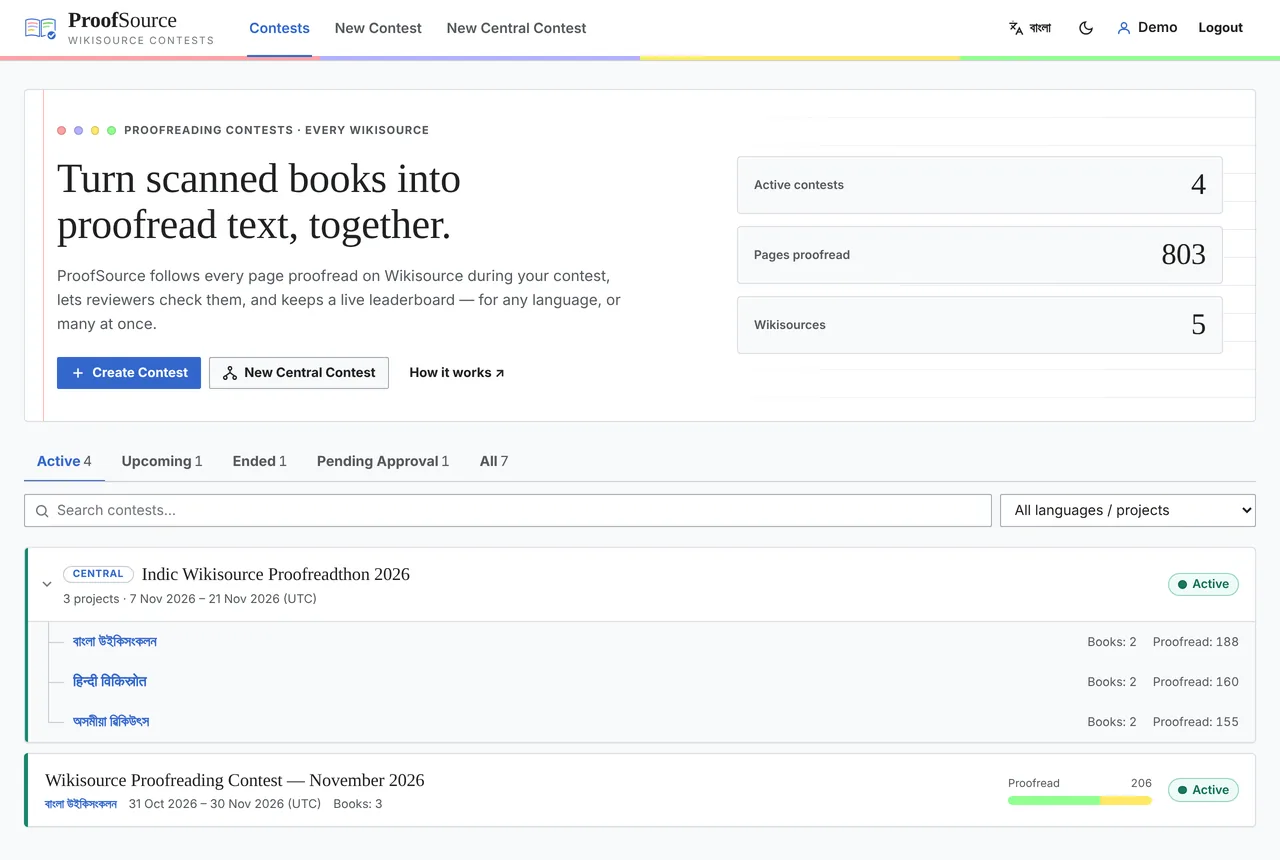
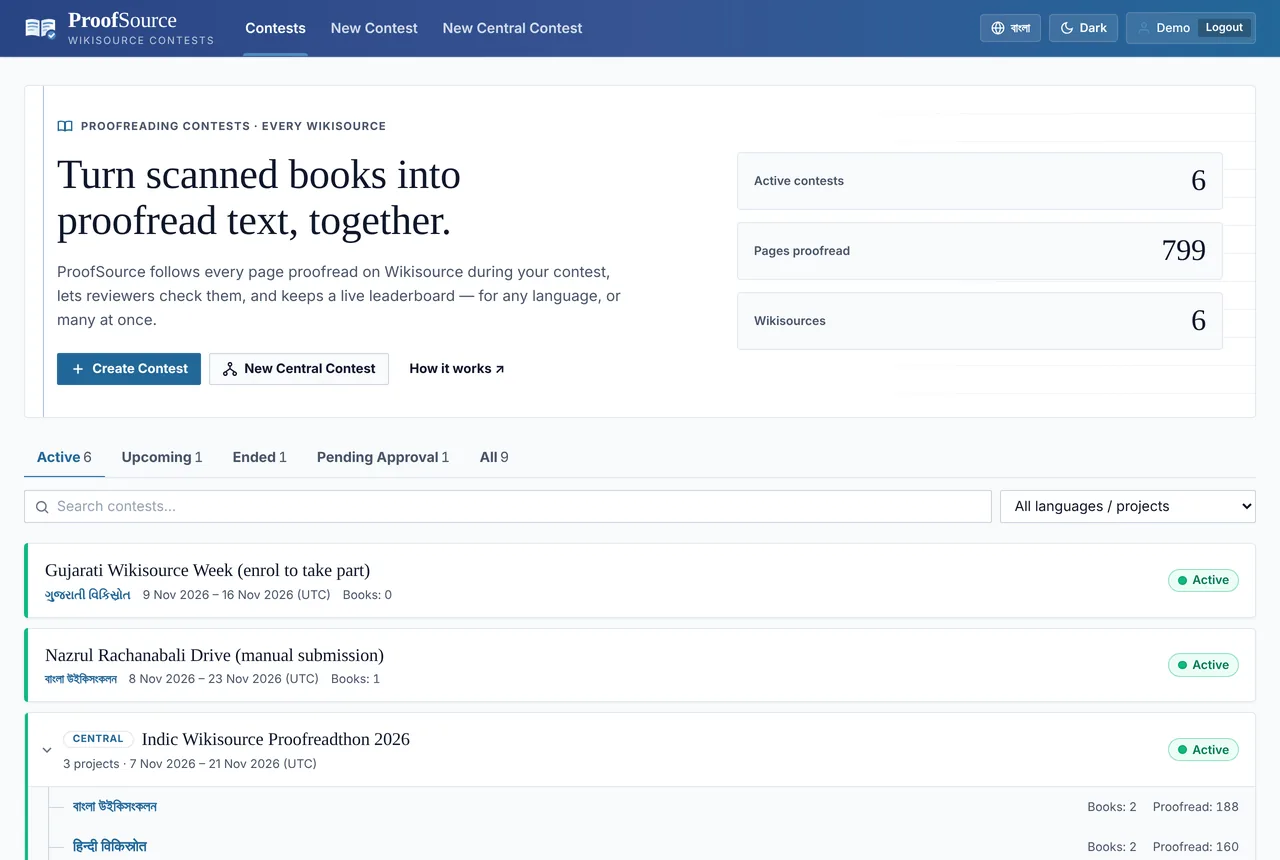
Document submission modes, reverted pages and tool admins
Claude-Session: https://claude.ai/code/session_01VQn43qWt4USaG88CMwjpBB

diff --git a/README_bn.md b/README_bn.md
@@ -16,7 +16,8 @@
 5. [প্রতিযোগিতার অ্যাডমিনদের জন্য](#৫-প্রতিযোগিতার-অ্যাডমিনদের-জন্য)
 6. [কেন্দ্রীয় প্রতিযোগিতা](#৬-কেন্দ্রীয়-প্রতিযোগিতা)
 7. [উইকিসংকলন প্রশাসকদের (sysop) জন্য: অনুমোদন](#৭-উইকিসংকলন-প্রশাসকদের-জন্য)
-8. [সাধারণ প্রশ্ন](#৮-সাধারণ-প্রশ্ন)
+8. [টুল অ্যাডমিনদের জন্য](#টুল-অ্যাডমিনদের-জন্য)
+9. [সাধারণ প্রশ্ন](#৮-সাধারণ-প্রশ্ন)
 
 ---
 
@@ -37,6 +38,15 @@
 2. **নির্ঘণ্ট বইসমূহ** ট্যাবে কোন কোন বই প্রতিযোগিতায় আছে আর প্রতি পাতায় কত পয়েন্ট, তা দেখা যায়। কোনো বইয়ের নিজস্ব সময়সীমা থাকলে সেটাও লেখা থাকে।
 3. **যেকোনো পাতা প্রুফরিড করুন** চাপলে (লগইন থাকতে হবে) টুল প্রুফরিড বাকি এমন একটি পাতা উইকিসংকলনে খুলে দেয়। চাইলে আগে ড্রপডাউন থেকে নির্দিষ্ট বই বেছে নিতে পারেন। পাতাটা ২০ মিনিট আপনার জন্য সংরক্ষিত থাকে, যাতে অন্য কেউ একই পাতা না পায়।
 4. উইকিসংকলনে স্বাভাবিকভাবে পাতাটি সংশোধন করে **মুদ্রণ সংশোধিত** (Proofread) অবস্থায় সংরক্ষণ করুন। টুল নিজে থেকেই পাতাটি ধরে নেবে। চাইলে **উইকি সিঙ্ক করুন** (↻) বাটন চেপে সঙ্গে সঙ্গে হালনাগাদ আনতে পারেন।
+
+### পাতা কীভাবে প্রতিযোগিতায় জমা পড়ে
+আয়োজকেরা তিনটি জমাদান পদ্ধতির একটি বেছে নেন; প্রতিযোগিতার পাতায় কোনটি চলছে তা লেখা থাকে।
+
+| পদ্ধতি | আপনার করণীয় |
+|---|---|
+| **স্বয়ংক্রিয় জমাদান** | কিছুই না। শর্ত পূরণ করা আপনার প্রতিটি পাতা নিজে থেকেই তালিকাভুক্ত হয়। |
+| **আধা স্বয়ংক্রিয় (নিবন্ধন)** | **আমার পাতাসমূহ**-এর পাশে **নিবন্ধন করুন** একবার চাপুন। এরপর শর্ত পূরণ করা আপনার পাতাগুলো নিজে থেকে তালিকাভুক্ত হবে — নিবন্ধনের আগে এই প্রতিযোগিতায় যেগুলো সংশোধন করেছেন সেগুলোও। যাঁরা নিবন্ধন করেননি, তাঁদের পাতা তালিকাভুক্ত হয় না। |
+| **ম্যানুয়াল জমাদান** | **জমা দিন** চাপুন। শর্ত পূরণ করা কিন্তু এখনো জমা না দেওয়া আপনার পাতাগুলোর তালিকা আসবে; যেগুলো চান টিক দিন (অথবা **সব বাছাই**), তারপর **জমা দিন** চাপুন। সদ্য সংশোধন করা পাতা না দেখালে **উইকিতে আবার দেখুন** চাপুন। প্রতিযোগিতা শেষ হওয়ার পর ২৪ ঘণ্টা পর্যন্ত জমা দেওয়া যায়। |
 
 ### আমার পাতাসমূহ
 প্রতিযোগিতার পাতায় **আমার পাতাসমূহ** বাটনে চাপলে আপনার নিজস্ব পাতা খোলে (`…/me`)। সেখানে দেখবেন:
@@ -63,6 +73,8 @@
 - বৈধ পাতাকে আবার মুদ্রণ সংশোধিত করলে, অর্থাৎ স্ট্যাটাস পেছনে নিলে। এমন হলেও কৃতিত্ব থাকে প্রথম যিনি প্রুফরিড করেছিলেন তাঁরই।
 - পরে কেউ পাতাটি আবার "মুদ্রণ সংশোধন করা হয়নি" অবস্থায় ফিরিয়ে দিলে।
 - বাদ দেওয়া পাতা (যেমন সূচিপত্র), বাদ দেওয়া ব্যবহারকারী আর বট অ্যাকাউন্টের পাতা।
+
+**ফেরানো পাতা।** কোনো পাতা একবার প্রতিযোগিতায় তালিকাভুক্ত হলে আর কখনো নিঃশব্দে মুছে যায় না। পরে শর্ত পূরণ না করলে — যেমন কেউ উইকিতে পাতাটি আবার "মুদ্রণ সংশোধন করা হয়নি" করে দিলে — পাতাটি **ফেরানো** অবস্থায় **০ পয়েন্টসহ** রেকর্ডে থাকে, পর্যালোচনায় যায় না, আর পরিবর্তনটি কার্যক্রমের ইতিহাসে লেখা হয়। **ফেরানো পাতা** ট্যাবে, লিডারবোর্ডে আর প্রত্যেকের পাতার তালিকায় এগুলো দেখা যায়। পাতাটি আবার মুদ্রণ সংশোধন করা হলে নিজে থেকেই পর্যালোচনায় ফিরে আসে।
 
 **পয়েন্ট:** পর্যালোচনাসহ প্রতিযোগিতায় পাতা **গৃহীত** হলে পয়েন্ট যোগ হয়। পর্যালোচনা ছাড়া প্রতিযোগিতায় সব যোগ্য পাতাই সরাসরি গণনা হয়। বৈধকরণের জন্য পয়েন্ট থাকলে বৈধকরণও গণনা হয়।
 
@@ -120,6 +132,7 @@
 - **পর্যালোচনা:** পর্যালোচনাসহ, অথবা পর্যালোচনা ছাড়া (প্রুফরিড সপ্তাহের মতো)
 - **পর্যালোচনা বণ্টন:** সবার জন্য উন্মুক্ত, অথবা সমান ভাগ
 - **রিভিউ মোড:** শুধু টুলে গ্রহণ/বাতিল, অথবা টুল থেকেই উইকিতে বৈধকরণ
+- **জমাদান পদ্ধতি:** স্বয়ংক্রিয়, আধা স্বয়ংক্রিয় (নিবন্ধন) অথবা ম্যানুয়াল (ওপরের "পাতা কীভাবে প্রতিযোগিতায় জমা পড়ে" দেখুন)। পরে স্বয়ংক্রিয়তে বদলালে অপেক্ষমাণ সব পাতা তালিকাভুক্ত হয়; আধা স্বয়ংক্রিয়তে বদলালে নিবন্ধিতদের অপেক্ষমাণ পাতা তালিকাভুক্ত হয়।
 - **বাতিল পাতার নিয়ম:** প্রতিযোগিতা শেষে একসঙ্গে ফেরানো, অথবা সঙ্গে সঙ্গে ফেরানো
 - নোটিশ (ইংরেজি ও বাংলা)
 - নির্ঘণ্ট পাতার তালিকা, প্রতি লাইনে একটি, যেমন `নির্ঘণ্ট:বই.pdf` বা `Index:Book.djvu`
@@ -174,6 +187,7 @@
    - বইভিত্তিক কাস্টম পয়েন্ট
    - বোনাস পয়েন্ট
    - জুরি পর্যালোচনা
+   - পাতা জমাদান (*স্বয়ংক্রিয় / আধা স্বয়ংক্রিয় / ম্যানুয়াল / প্রকল্প ঠিক করবে*)
 4. **অন্তর্ভুক্ত প্রকল্প** অংশে প্রকল্প যোগ করুন, আর প্রতিটির জন্য সেই প্রকল্পের অ্যাডমিনদের নাম দিন।
 5. সংরক্ষণ করলে প্রতিটি প্রকল্পের জন্য আলাদা প্রতিযোগিতা নিজে থেকে তৈরি হয়। হোমপেজে সেগুলো কেন্দ্রীয় প্রতিযোগিতার নিচে ট্রি আকারে দেখা যায়।
 
@@ -199,6 +213,14 @@
 - আপনার উইকি অন্তর্ভুক্ত আছে এমন কেন্দ্রীয় প্রতিযোগিতাও আপনি অনুমোদন দিতে পারেন।
 
 হোমপেজের **অনুমোদনের অপেক্ষায়** ট্যাবে অপেক্ষমাণ সব প্রতিযোগিতা পাওয়া যায়।
+
+---
+
+## টুল অ্যাডমিনদের জন্য
+
+টুল অ্যাডমিনরা যেকোনো প্রতিযোগিতা অনুমোদন করতে, অ্যাডমিনদের অনুরোধে প্রতিযোগিতা মুছতে আর ডেটাবেসের স্ন্যাপশট নিতে পারেন। ওপরের মেনুতে **টুল অ্যাডমিন** খুললে তালিকা দেখা যায়:
+- **স্থায়ী** টুল অ্যাডমিনরা সার্ভারের কনফিগারেশন থেকে আসেন (`PROOFSOURCE_SUPER_ADMINS`; ডিফল্ট *MS Sakib*), এই পাতা থেকে তাঁদের সরানো যায় না।
+- যেকোনো টুল অ্যাডমিন উইকিমিডিয়া ব্যবহারকারী-নাম দিয়ে নতুন টুল অ্যাডমিন **যোগ** করতে বা এখান থেকে যোগ করা কাউকে **সরাতে** পারেন। প্রতিটি পরিবর্তন রেকর্ড থাকে।
 
 ---
 

diff --git a/ARCHITECTURE.md b/ARCHITECTURE.md
@@ -10,7 +10,7 @@
 ![Flask](https://img.shields.io/badge/Flask-3.0-236798)
 ![SQLAlchemy](https://img.shields.io/badge/SQLAlchemy-2.x-006699)
 ![Vue](https://img.shields.io/badge/Vue-3-4D8AC0)
-![Tests](https://img.shields.io/badge/tests-67%20passing-2e7d32)
+![Tests](https://img.shields.io/badge/tests-81%20passing-2e7d32)
 
 </div>
 
@@ -18,7 +18,7 @@ ProofSource is a web tool for running **proofreading contests on Wikisource** (a
 
 - **Live:** `https://proofsource.toolforge.org` · **Staging:** `https://proofsource-test.toolforge.org`
 - **Hosting:** Wikimedia Toolforge (Kubernetes webservice, `python3.11`, uWSGI)
-- **Stack:** Python 3.11 · Flask 3.0 · Flask-SQLAlchemy 3.1 (SQLAlchemy 2.x) · **ToolsDB (MariaDB)** in production, SQLite for local development · Vue 3 (self-hosted, single HTML template) · Tailwind CSS built at development time with the Wikimedia **Codex** design tokens (no CDN)
+- **Stack:** Python 3.11 · Flask 3.0 · Flask-SQLAlchemy 3.1 (SQLAlchemy 2.x) · **ToolsDB (MariaDB)** in production, SQLite for local development · Vue 3 (self-hosted, single HTML template) · Tailwind CSS built at development time (original Wikisource-blue theme, Codex-style components; no CDN)
 - **Login:** MediaWiki **OAuth 2.0** (meta.wikimedia.org)
 - **UI languages:** English (default) and Bangla, through one central translation table
 
@@ -108,7 +108,7 @@ Set with `toolforge envvars create NAME VALUE`. Secrets are never stored in code
 | `TOOLSDB_HOST` | ToolsDB host | `tools.db.svc.wikimedia.cloud` |
 | `DATABASE_URL` | Any SQLAlchemy URL; overrides `TOOLSDB_DATABASE` | `sqlite:///proofsource_v5.db` (local development) |
 | `DB_POOL_SIZE` / `DB_MAX_OVERFLOW` / `DB_POOL_RECYCLE` | Connection pool per uWSGI worker (ToolsDB allows few connections per tool) | `2` / `3` / `280` s |
-| `PROOFSOURCE_SUPER_ADMINS` | Tool admins, comma-separated, matched **exactly** (canonical username) | `MS Sakib` |
+| `PROOFSOURCE_SUPER_ADMINS` | **Permanent** tool admins, comma-separated, matched exactly (canonical username). More tool admins can be added in the UI (`tool_admins` table). | `MS Sakib` |
 | `PROOFSOURCE_BACKUP_DIR` | Where backups/snapshots go (created 0700, files 0600) | `~/proofsource_backups` |
 | `PROOFSOURCE_SNAPSHOT_HOURS` | Interval between automatic DB snapshots | `12` |
 | `PROOFSOURCE_SNAPSHOT_KEEP` | Number of snapshots kept | `21` |
@@ -137,10 +137,12 @@ Toolforge requirement: `~/www/python/uwsgi.ini` with `buffer-size = 65535`; othe
 
 | Table | Model | Key fields |
 |---|---|---|
-| `contests` | `Contest` | slug, title, wiki_domain, start/end (UTC), proofread/validate/max_bonus points, jury_mode (`in_app_validate` / `accept_reject`), reject_action (`hold_batch` / `instant_revert`), admins, juries, excluded_users, approval_status, **review_enabled**, **bulk_review_enabled**, **review_assignment** (`open`/`equal`), **allow_custom_points**, announcement_en/bn, last_backup_at, sync_started_at, hub_id, delete_requested_by/at/reason |
+| `contests` | `Contest` | slug, title, wiki_domain, start/end (UTC), proofread/validate/max_bonus points, jury_mode (`in_app_validate` / `accept_reject`), reject_action (`hold_batch` / `instant_revert`), admins, juries, excluded_users, approval_status, **review_enabled**, **bulk_review_enabled**, **review_assignment** (`open`/`equal`), **submission_mode** (`auto`/`enroll`/`manual`), **allow_custom_points**, announcement_en/bn, last_backup_at, sync_started_at, hub_id, delete_requested_by/at/reason |
 | `index_books` | `IndexBook` | contest_id, title, base_name, total_pages, custom_points, excluded_pages, is_active, optional own start/end window |
-| `contest_pages` | `ContestPage` | contest_id, book_id, page_number, page_title, wiki_level, proofreader, validator, proofread_rev_id/time, review_status (`unproofread`/`pending_review`/`accepted`/`needs_fix`/`rejected`), reviewed_by/at, base/bonus points, jury_note, jury & user locks, **last_rev_id** (incremental sync), **assigned_to** (equal review) |
-| `hubs` | `Hub` = **Central contest** | slug, title, description, link, start/end, approval_status, proofread/validate points, custom_points_policy / bonus_policy / review_policy (`yes`/`no`/`project`), admins, delete request fields |
+| `contest_pages` | `ContestPage` | contest_id, book_id, page_number, page_title, wiki_level, proofreader, validator, proofread_rev_id/time, review_status (`unproofread`/`eligible`/`pending_review`/`accepted`/`needs_fix`/`rejected`/`reverted`), **reverted_from / revert_reason / reverted_at**, reviewed_by/at, base/bonus points, jury_note, jury & user locks, **last_rev_id** (incremental sync), **assigned_to** (equal review) |
+| `hubs` | `Hub` = **Central contest** | slug, title, description, link, start/end, approval_status, proofread/validate points, custom_points_policy / bonus_policy / review_policy (`yes`/`no`/`project`), **submission_policy** (`auto`/`enroll`/`manual`/`project`), admins, delete request fields |
+| `enrollments` | `Enrollment` | contest_id, username — participants who enrolled (semi-automatic submission) |
+| `tool_admins` | `ToolAdmin` | username, added_by — tool admins added from the UI (on top of `PROOFSOURCE_SUPER_ADMINS`) |
 | `audit_logs` | `AuditLog` | append-only (ORM blocks update/delete); contest_id (no FK, survives deletion), username, action, target, old/new value, details |
 | `slug_aliases` | `SlugAlias` | old slugs keep working after a slug change (301 redirect) |
 | `oauth_logins` | `OAuthLogin` | server-side OAuth tokens |
@@ -174,6 +176,20 @@ Uses the page's **full revision history** (oldest → newest, paged up to 500 re
 - Changing the contest/book window clears `last_rev_id`, so the next sync re-checks every page.
 - `GET /api/contests/<id>` returns **cached** data instantly; the frontend calls `POST /sync` in the background when data is stale (> 5 min).
 
+### 5.2a Page lifecycle and submission modes
+| Status | Meaning | Counted |
+|---|---|---|
+| `unproofread` | placeholder (e.g. a page reservation) | no |
+| `eligible` | meets the rules (§5.1) but not submitted yet — enrol/manual modes | no, not visible |
+| `pending_review` / `accepted` / `needs_fix` / `rejected` | listed in the contest | per review rules |
+| `reverted` | was listed, then stopped qualifying (set back to *Not proofread*, no longer meets the rules, or excluded by admins) | 0 points, never reviewed, kept forever |
+
+- **auto:** eligible pages go straight to `pending_review` (the original behaviour).
+- **enroll:** only pages of enrolled participants (`enrollments`) do; `POST /enroll` also lists the participant's pages that were already waiting.
+- **manual:** pages wait as `eligible`; the proofreader lists them with `POST /submit` (only their own pages; open until 24 h after the end).
+- Changing the mode re-applies it to waiting pages (`apply_submission_mode`). A central contest can force the mode on all projects.
+- A listed page that stops qualifying becomes `reverted` (`_drop_page`): points 0, removed from review queues and locks, `page_reverted` audit entry by `ProofSource (sync)`. If it is proofread again it returns to `pending_review` (`page_restored`). Unsubmitted `eligible` pages that stop qualifying are simply reset.
+
 ### 5.3 Points & leaderboard
 - Book points = custom points (if allowed) else the contest default.
 - Review mode: points count when `accepted`. Non-review mode: `pending_review` also counts.
@@ -198,7 +214,7 @@ Uses the page's **full revision history** (oldest → newest, paged up to 500 re
 ### 5.6 Permissions
 | Role | Determined by | Can |
 |---|---|---|
-| Tool admin (super admin) | `SUPER_ADMINS` | everything; deletes contests on request; DB snapshots |
+| Tool admin (super admin) | `PROOFSOURCE_SUPER_ADMINS` (permanent) + `tool_admins` table | everything; deletes contests on request; DB snapshots; manages the tool-admin list |
 | Wiki sysop | wiki `sysop/bureaucrat/steward` group | auto-approved contests on that wiki; approves pending contests |
 | Contest admin | creator or `admins` list | configure, books, backup/restore, audit log, request deletion |
 | Reviewer (jury) | `juries` list | review queue, bulk review (if enabled) |
@@ -232,6 +248,10 @@ Pages (all render `index.html` with `window.PS_INITIAL` for instant direct links
 
 Auth: `/login`, `/auth/callback`, `/logout`, `GET /api/session`.
 
+Submission: `POST …/enroll`, `GET …/my-eligible`, `POST …/submit`.
+
+Tool admins: `GET/POST /api/admin/tool-admins`, `DELETE /api/admin/tool-admins/<name>`.
+
 Contests: `GET/POST /api/contests`, `GET /api/contests/<id>`, `POST …/sync`, `POST …/config`, `POST …/approve`, `POST …/books`, `POST …/books/<bid>/update|remove`, `POST …/reserve-page`, `GET …/user/<name>/pages`, `GET /api/contests/by-slug/<lang>/<slug>`.
 
 Review: `GET …/jury/next-page` (filters: book_id, status, contributor, scope, page_id, peek), `POST …/jury/lock|preview|submit`, `GET …/bulk/candidates`, `POST …/bulk/review`, `POST …/batch-revert`.
@@ -253,7 +273,7 @@ Errors return `{"success": false, "error_code": "...", "error": "..."}`; the fro
 - Dates are always UTC, with Bangla digits and month names in Bangla.
 - Keyboard shortcuts use `event.code` (Alt+A accept, Alt+F needs fix, Alt+R reject, Alt+N next), so they work with Bangla/Avro layouts and never fire inside text fields.
 - Cached contest/central data (localStorage) is shown instantly, then refreshed; links prefetch on hover; there is a top progress bar and fade transitions.
-- Design system: the Wikimedia **Codex** design tokens (progressive blue `#36c`, neutral greys `#202122 … #f8f9fa`, night-mode `#101418`, 2 px radii, system fonts, serif headings like the wikis). `tailwind.config.js` maps Tailwind's palette names onto these tokens, so the markup never hard-codes a colour. The signature motif is the four **ProofreadPage quality colours** (not proofread / problematic / proofread / validated) used in the header ribbon and in every progress bar. Shared classes: `.ps-card`, `.ps-row`, `.ps-stat`, `.ps-btn*` (Codex Button), `.ps-input`/`.ps-label` (Codex TextInput), `.ps-tabs`/`.ps-tab` (Codex Tabs), `.ps-chip`, `.ps-qbar`.
+- Design system: ProofSource's **original colour theme** — the Wikisource-logo blues `ws.dark #294584`, `ws.chambray #375493`, `ws.cerulean #236798`, `ws.bright #006699`, `ws.nature #4D8AC0` on Tailwind slate, with emerald/amber/rose/sky for status — combined with Wikimedia **Codex** component conventions (2–4 px radii, 32 px controls, quiet/progressive buttons, underline tabs, system fonts, serif headings like the wikis). Progress bars show accepted (green) and pending (amber) pages. Shared classes: `.ps-card`, `.ps-row`, `.ps-stat`, `.ps-btn*` (Codex Button), `.ps-input`/`.ps-label` (Codex TextInput), `.ps-tabs`/`.ps-tab` (Codex Tabs), `.ps-chip`, `.ps-qbar`.
 - CSS build (only when the template or `static/src/app.css` changes): `npm install && npm run build:css`; commit `static/css/app.css`. Toolforge deploys need no Node.js.
 
 ---

diff --git a/README.md b/README.md
@@ -25,6 +25,9 @@ ProofSource finds every page that is proofread on Wikisource during a contest, l
   <img src="docs/screenshots/review-dark.webp" alt="The review panel in dark mode" width="74%" />
   <img src="docs/screenshots/mobile.webp" alt="A contest on a phone" width="23%" />
 </p>
+<p align="center">
+  <img src="docs/screenshots/submit.webp" alt="Manual submission: choosing pages to submit" width="74%" />
+</p>
 
 ---
 
@@ -38,6 +41,7 @@ ProofSource finds every page that is proofread on Wikisource during a contest, l
 - [For contest admins](#for-contest-admins)
 - [Central contests](#central-contests)
 - [For Wikisource administrators](#for-wikisource-administrators)
+- [For tool admins](#for-tool-admins)
 - [FAQ](#faq)
 
 ---
@@ -49,12 +53,14 @@ ProofSource finds every page that is proofread on Wikisource during a contest, l
 | 🔍 **Automatic tracking** | Pages proofread inside the contest window are detected from the wiki history. |
 | ✅ **Review workflow** | Accept, Needs fix or Reject, with notes, quick feedback chips and optional bonus points. |
 | ⚖ **Fair review distribution** | Open for all reviewers, or pages split equally among them in book order. |
+| 📝 **Three ways to submit** | Automatic, semi-automatic (participants enrol) or manual (participants pick and submit their pages). |
+| ↩ **Nothing silently disappears** | A page set back to *Not proofread* stays on record as *Reverted* with 0 points. |
 | 📦 **Bulk review** | Select many pages (Shift+click) and accept or reject them at once. |
 | 🌐 **Central contests** | Several wikis under one control panel and a combined leaderboard. |
 | 📚 **Flexible books** | Per-book points, excluded pages (`1-5, 12`) and per-book time windows. |
 | 💾 **Backups** | Full JSON backup and restore, CSV exports, automatic snapshots and reminders. |
 | 📝 **Activity log** | Every admin action is recorded and cannot be edited. |
-| 🌙 **Comfortable UI** | Wikimedia (Codex) design, English and Bangla, dark mode, mobile friendly, keyboard shortcuts. |
+| 🌙 **Comfortable UI** | ProofSource's Wikisource-blue theme with Wikimedia (Codex) style components, English and Bangla, dark mode, mobile friendly, keyboard shortcuts. |
 | 🔒 **Private & safe** | No third-party CDNs or trackers; OAuth tokens encrypted at rest; CSRF, CSP and signed backups. |
 
 ---
@@ -78,6 +84,15 @@ On the home page, contests are grouped into **Active, Upcoming, Ended and Pendin
 2. The **Index Books** tab lists the books in the contest, their points per page and any book-specific time window.
 3. Click **Proofread Any Page** (you need to be logged in) to open a random unproofread page on Wikisource. You can pick a book first. The page is reserved for you for 20 minutes.
 4. Proofread it on Wikisource as usual and save it as **Proofread**. The tool picks it up automatically. Press the sync button (↻) to refresh immediately.
+
+### How your pages enter the contest
+The organizers choose one of three submission modes; the contest page shows which one is used.
+
+| Mode | What you do |
+|---|---|
+| **Automatic submission** | Nothing. Every page of yours that meets the rules is listed automatically. |
+| **Semi-automatic (enrol)** | Press **Enrol** once (next to *My Pages*). From then on your qualifying pages are listed automatically — including the ones you proofread in this contest before enrolling. Pages of people who did not enrol are not listed. |
+| **Manual submission** | Press **Submit pages**. A list of your qualifying pages that are not submitted yet appears; tick the ones you want (or **Select all**) and press **Submit**. Use **Check the wiki again** if a page you just proofread is missing. Submissions stay open until 24 hours after the contest ends. |
 
 ### My Pages
 **My Pages** opens your own page (`…/me`) with:
@@ -106,6 +121,8 @@ A page does **not** count when:
 - ❌ A validated page is moved back to proofread. The credit stays with whoever proofread it first.
 - ❌ The page is later reverted to *Not proofread*.
 - ❌ It is an excluded page (e.g. table of contents), or by an excluded user or a bot.
+
+**Reverted pages.** Once a page is in the contest it is never silently removed. If it later stops qualifying — for example someone sets it back to *Not proofread* on the wiki — it stays on record as **Reverted** with **0 points**, it is not sent for review, and the change is written to the activity log. You can see reverted pages in the **Reverted pages** tab, on the leaderboard and on everyone's page list. If the page is proofread again, it returns to the review queue automatically.
 
 **Points:** in contests *with review*, points are added when a page is **accepted**. In contests *without review*, every eligible page counts directly. Validation earns points only if the contest gives validation points.
 
@@ -167,6 +184,7 @@ Click **Create Contest** on the home page and fill in:
 | Review | *With review*, or *Without review* (like a Proofread Week). |
 | Review distribution | *Open for all* or *Equal share*. |
 | Review mode | Accept/reject in the tool only, or validate directly on Wikisource. |
+| Submission | *Automatic*, *Semi-automatic (enrol)* or *Manual submission* (see [How your pages enter the contest](#how-your-pages-enter-the-contest)). Switching to automatic lists every page that is waiting; switching to semi-automatic lists the waiting pages of enrolled participants. |
 | Rejected pages | Revert in one batch after the contest, or immediately. |
 | Announcements | English and Bangla. |
 | Index pages | One per line, e.g. `Index:Book.djvu` or `নির্ঘণ্ট:বই.pdf`. |
@@ -221,6 +239,7 @@ Use a central contest when several Wikisource projects run one event together, f
    - custom points per book
    - bonus points
    - jury review
+   - page submission (*Automatic / Semi-automatic / Manual / Project decides*)
 4. Under **Included projects**, add each project and its project admins.
 5. Save. One contest is created for each project, and they appear as a tree under the central contest on the home page.
 
@@ -246,6 +265,14 @@ If you are an administrator (sysop) of a Wikisource:
 - You can also approve central contests that include your wiki.
 
 The **Pending Approval** tab on the home page lists everything waiting.
+
+---
+
+## For tool admins
+
+Tool admins can approve any contest, delete contests when their admins ask for it and take database snapshots. Open **Tool admins** in the top menu to see the list:
+- **Permanent** tool admins come from the server configuration (`PROOFSOURCE_SUPER_ADMINS`; by default *MS Sakib*) and cannot be removed from the page.
+- Any tool admin can **add** another tool admin by Wikimedia username, or **remove** one that was added there. Every change is recorded.
 
 ---
 

diff --git a/docs/SECURITY_AUDIT.md b/docs/SECURITY_AUDIT.md
@@ -94,7 +94,9 @@ atomically. Moving to ToolsDB (below) removes the shared-file exposure entirely.
 ### 9. Tool-admin identity (Medium)
 `SUPER_ADMINS = {"ms sakib"}` was compared after lower-casing. MediaWiki usernames are
 case-sensitive after the first letter, so `Ms sakib` or `MS SAKIB` would have matched. Tool admins
-are now matched by exact canonical name and configurable via `PROOFSOURCE_SUPER_ADMINS`.
+are now matched by exact canonical name. Permanent admins come from `PROOFSOURCE_SUPER_ADMINS`;
+more can be added and removed from the UI by tool admins (stored in `tool_admins`, every change in
+the audit log, permanent admins cannot be removed there).
 
 ### 10. Resource abuse (Medium)
 Anonymous clients could `POST /sync {"force": true}` repeatedly (each sync walks wiki histories) and
